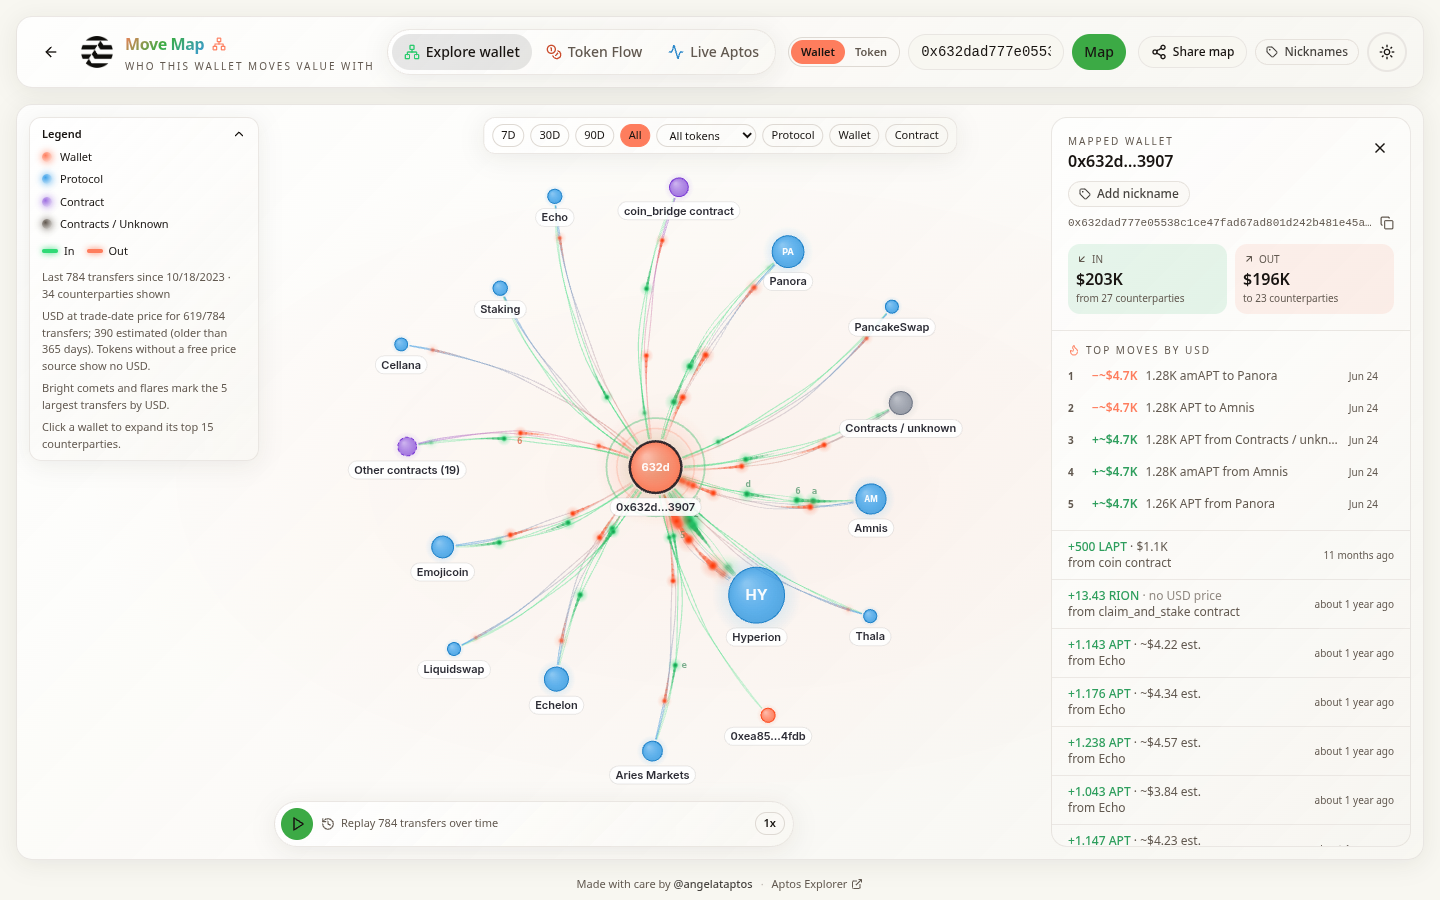
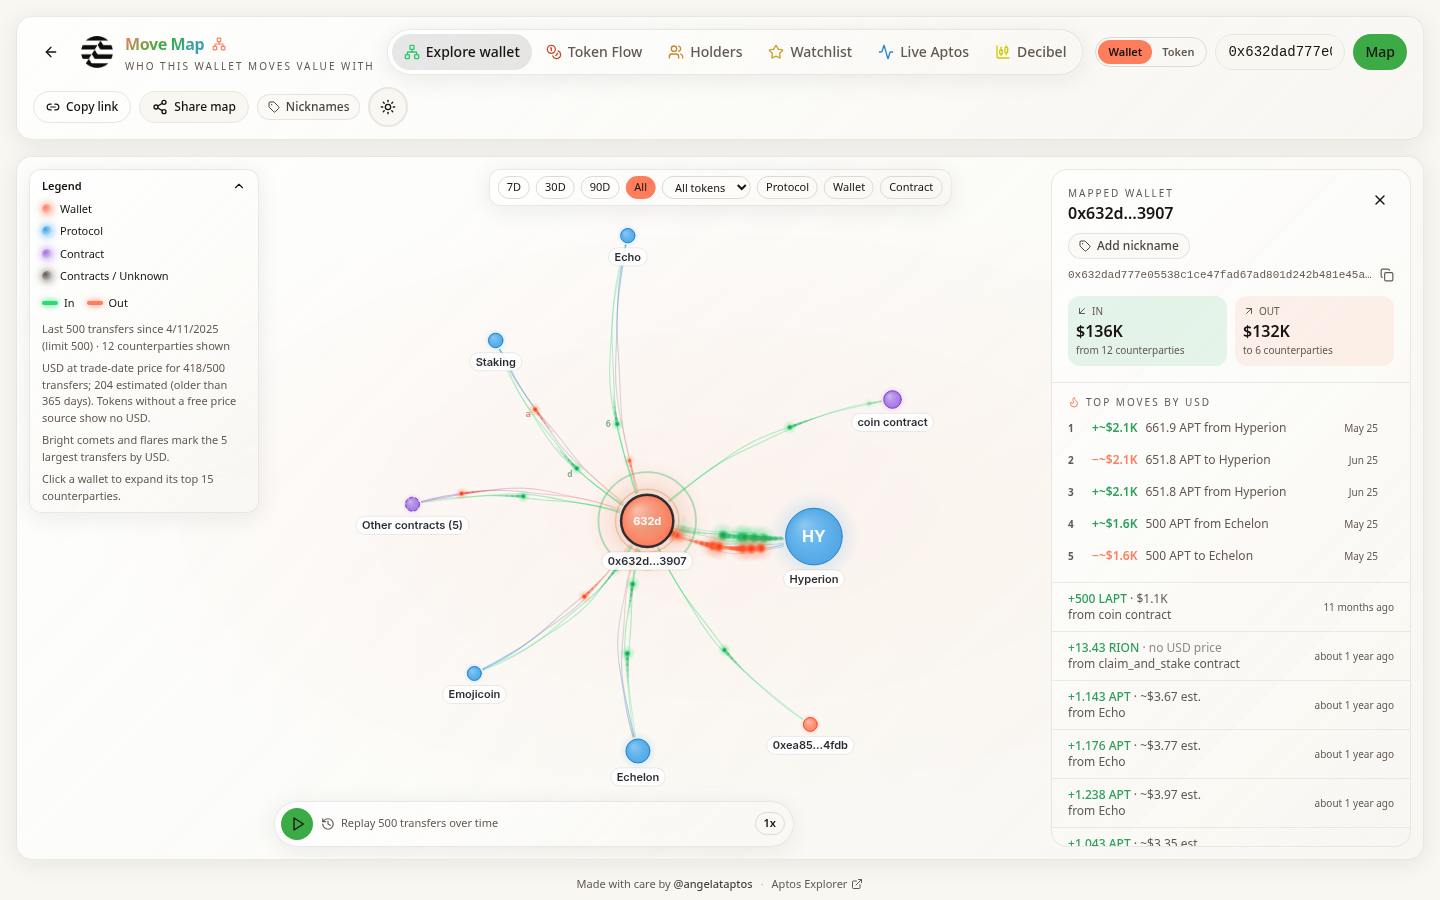
Add Decibel, Pulse Decibel labels and filter, Watchlist and Holders; fresh screenshots

diff --git a/README.md b/README.md
@@ -1,44 +1,64 @@
 # Tracktos
 
-A friendly window into Aptos: an explorer for wallets and the network, built to make the chain easy to see and understand.
+A friendly window into Aptos: see wallets, tokens, the live network and the Decibel exchange as pictures instead of tables.
 
-**[Open it → tracktos.com](https://tracktos.com)** · free, no sign-up, works on phones and desktop
+**[Open it → tracktos.com](https://tracktos.com)** · free, no sign-up, no wallet connect, works on phones and desktop
 
 ![Move Map](screenshots/movemap_desktop_dark.png)
 
 ## Why it exists
 
-I'm a community manager at the Aptos Foundation, in crypto since 2021. Every day people ask me simple questions: what is this wallet doing, where is this token going, how busy is the network? Block explorers answer them, but not in a way most people can *see*. Tracktos draws the answers: who a wallet moves value with, where a token is flowing right now, and what mainnet looks and sounds like block by block. Building it was also how I learned how Aptos works under the hood.
+People new to Aptos keep asking the same simple questions: what is this wallet doing, where is this token going, how busy is the network right now? Block explorers have the answers, but as long lists of transactions that most people can't *see*. Tracktos draws them: who a wallet moves value with, where a token is flowing, who holds it, and what mainnet looks and sounds like block by block. Building it was also how I learned how Aptos works.
 
 ## Who uses it
 
-Aptos community members, holders and curious newcomers who want a visual, phone-friendly way to explore wallets and the network.
+Aptos community members, holders and curious newcomers who want a visual, phone-friendly way to explore wallets and the network, and people who follow Decibel and want its stats on one page.
 
 ## The numbers
 
-*As of October 16, 2026:* Tracktos launched on **October 14, 2026**, so it's early days and I'm not publishing usage numbers yet (my own testing would inflate them, so it's now excluded from the counter). It covers **mainnet and testnet**, with six main views: Move Map, Token Flow, Holders, Pulse, Network and the Wallet explorer, plus **168 address labels** from the official Aptos Explorer's public list and **8 more** verified on-chain.
+*As of October 17, 2026:* Tracktos launched on **October 14, 2026**, so it's early days. I'm not publishing usage numbers yet; my own testing is excluded from the count, and three days is too soon to say anything honest.
+
+- **Eight views**: Move Map, Token Flow, Holders, Watchlist, Pulse, Network, the Wallet explorer and Decibel, on **mainnet and testnet** (Decibel is mainnet only)
+- **176** exchanges, protocols and contracts labelled by name
+- **72** Decibel perp markets tracked, matching the markets Decibel itself lists
+- In a sample on Oct 17, 2026 (about 23 minutes of mainnet), roughly **99%** of user transactions on Aptos were Decibel activity, which is why Pulse now lets you filter it
 
 ## What you can do
 
 ### Explore a wallet: Move Map
-Paste any Aptos address and its counterparties appear as living streams of value: bubbles sized by volume, flowing in and out of the wallet. Play back its history over time, spot the biggest moves as flares, expand two hops out, filter by token, period and kind (wallets, protocols, contracts), and share a card of the map. Known exchanges and protocols are labelled.
+Paste any Aptos address and its counterparties appear as living streams of value: bubbles sized by volume, flowing in and out of the wallet. Play back its history, spot the biggest moves as flares, expand two hops out, filter by token, period and kind (wallets, protocols, contracts), and share a card of the map.
 
 ### Token Flow
-Pick APT, USDC, USDt or any coin type / fungible asset and see its recent transfers as one picture: who is sending, who is receiving, and which exchanges and protocols sit in the middle, over the last hour, day or week.
+Pick APT, USDC, USDt or any coin / fungible asset and see its recent transfers as one picture: who is sending, who is receiving, and which exchanges and protocols sit in the middle, over the last hour, day or week. Token Flow is now more complete and more accurate: busy stretches are counted in full, every transaction is counted whole, and each minute keeps the same level of detail.
 
 ![Token Flow](screenshots/tokenflow_desktop_dark.png)
 
 ### Holders
-The 100 largest holders of APT, USDC, USDt and other major Aptos tokens, with exchanges and protocols labelled. A distribution panel shows how concentrated a token is: top 10/50/100 share of supply, the concentration index (HHI), how many holders together pass half of supply, and a simple 0–100 score with a plain explanation of how it's calculated. It describes concentration only; it never labels a token as risky or a scam.
+The 100 largest holders of APT, USDC, USDt and other major Aptos tokens, with exchanges and protocols named. A distribution panel shows how concentrated a token is: top 10/50/100 share of supply, the concentration index (HHI), how many holders together pass half of supply, and a simple 0–100 score with a plain explanation. It describes concentration only; it never labels a token as risky or a scam.
 
-### Today on Aptos
-The home page opens with the last 24 hours: the biggest single APT, USDC and USDt moves (linked to the explorer, with exchanges named), and how many blocks and transactions the network produced.
+![Holders](screenshots/holders_desktop_dark.png)
+
+### Decibel
+A stats page for [Decibel](https://decibel.trade), the perpetuals exchange on Aptos. Info only: Tracktos doesn't trade, hold funds or connect wallets.
+
+- **Headline figures**: all-time perp volume and trading fees, 24h volume, open interest, vault TVL and leaderboard size. On the evening of Oct 17, 2026 the page showed about **$8.35B** all-time perp volume, **$3.28M** all-time trading fees and **$23.6M** in vaults
+- **Daily history since launch**: perp volume, trading fees and open interest at the end of each day
+- **All 72 perp markets** (31 crypto, 41 TradFi), with price, 24h and 7d change, 24h volume, open interest, and funding shown per year or per hour
+- **Top movers** of the last 24 hours and what's trending on Decibel
+- **Top vaults** by TVL, with APR, all-time return and depositors
+- **Trader leaderboard** by volume or realized PnL, with ROI and account value, linking to Decibel's own leaderboard
+
+![Decibel](screenshots/decibel_desktop_dark.png)
+![Decibel markets](screenshots/decibel_markets_desktop_dark.png)
 
 ### Live Aptos
 - **Pulse**: mainnet's live transactions turned into light and sound. Several visual modes (Garden, Constellation, Orbit, Rain, Pulse Lines), each with its own in-key instrument palette that follows network activity, big APT and stablecoin moves called out as they happen, a Live Transactions feed linking to the explorer, ambient mode, and **Record 10s** to save a clip with sound.
+  - **Decibel, labelled honestly.** Decibel's activity used to appear as generic "Swap" or "Contract" rows. It now has its own label and colour (Decibel yellow), named by what it is: order, quote, cancel, price update or settlement.
+  - **All / Decibel only / Hide Decibel.** Because Decibel is most of the traffic, one tap shows only Decibel, or hides it to see everything else on Aptos. The choice is remembered on your device, and a live counter shows Decibel's current share.
 - **Network**: a 3D globe of the validator set. Every pulse is a real block, drawn from the validator that proposed it, alongside live TPS, epoch progress, transaction mix, staking and supply.
 
 ![Pulse](screenshots/pulse_desktop_dark.png)
+![Pulse with Decibel hidden](screenshots/pulse_hide_decibel_desktop_dark.png)
 ![Live Network](screenshots/network_desktop_light.png)
 
 ### Wallet explorer
@@ -47,41 +67,40 @@ Balances and staking, portfolio history, token holdings, NFT gallery, transactio
 ![Wallet](screenshots/wallet_desktop_dark.png)
 
 ### And
-- **Share links**: every Move Map, Token Flow, Holders and wallet view has a Copy link button that reopens exactly what you were looking at, and links shared on X show a matching title and description
+- **Watchlist**: star wallets and tokens and see them together, kept only in your browser
+- **Today on Aptos**: the home page opens with the last 24 hours, the biggest APT, USDC and USDt moves and how many blocks and transactions the network produced
+- **Share links**: every Move Map, Token Flow, Holders and wallet view has a Copy link button that reopens exactly what you were looking at
 - **Busy wallets** like exchanges get a quick summary instead of a map that would take too long to draw
 - **Nicknames** for wallets you follow, saved only in your browser
-- **Light and dark** themes
-- Designed for **phones** as carefully as for desktop
+- **Light and dark** themes, and a phone menu designed as carefully as the desktop
 
 | | | |
 |---|---|---|
-| ![Home](screenshots/home_mobile_dark.png) | ![Move Map on a phone](screenshots/movemap_mobile_dark.png) | ![Pulse on a phone](screenshots/pulse_mobile_dark.png) |
-| ![Network on a phone](screenshots/network_mobile_dark.png) | ![Wallet on a phone, light](screenshots/wallet_mobile_light.png) | ![Home, light](screenshots/home_desktop_light.png) |
+| ![Home](screenshots/home_mobile_dark.png) | ![Decibel on a phone](screenshots/decibel_mobile_dark.png) | ![Pulse on a phone](screenshots/pulse_mobile_dark.png) |
+| ![Move Map on a phone](screenshots/movemap_mobile_dark.png) | ![Network on a phone](screenshots/network_mobile_dark.png) | ![Wallet on a phone, light](screenshots/wallet_mobile_light.png) |
 
-## How I built it
+![Home, light](screenshots/home_desktop_light.png)
+![Decibel, light](screenshots/decibel_desktop_light.png)
 
-A web app on Cloudflare Pages, with small Cloudflare Workers that read Aptos's public APIs once, cache the answer and share it with every visitor, so live pages stay fast and well inside Aptos rate limits. A scheduled collector rolls recent token transfers into a Cloudflare D1 database for Token Flow.
+## What was hard
 
-## Challenges I solved
-
-- **Accuracy.** Network and staking stats are checked against official Aptos sources, and token prices are matched by each asset's on-chain address rather than by name or symbol, so look-alike tokens can't be mispriced.
-- **Privacy.** Usage is measured with a privacy-first, cookieless counter. Nicknames you give wallets stay in your browser.
-- **Security.** I hardened the site before launch, following web security basics.
-- **Showing "Unavailable" instead of a wrong number.** Every new figure (holder shares, concentration, the day's biggest moves, block counts) was cross-checked against the chain itself before launch, and where a number can't be stated reliably the site says so. For example, the inequality measure (Gini) isn't shown because 100 holders aren't enough to compute it honestly.
+- **Showing "Unavailable" instead of a wrong number.** Where a figure can't be stated reliably, the site says so. For example, the inequality measure (Gini) isn't shown because 100 holders aren't enough to compute it honestly.
+- **One exchange is most of the chain's traffic.** Decibel was almost all of the live feed, mislabelled as swaps. The fix wasn't a separate page but honest labels and a filter on the one people already use.
+- **Matching the source.** Decibel's own pages count only the markets it lists, so Tracktos does too, and funding is shown the same way, per hour or per year.
 - **Very busy wallets.** Exchange wallets have millions of transfers; rather than hang, Tracktos recognises them and shows a fast summary.
-- **Speed on live data.** Shared edge caching keeps the live views smooth for everyone at once.
+- **Live views for everyone at once.** Pulse, Network and Decibel are built to stay smooth when many people have them open at the same time.
 
 ## What I learned
 
-- **Shipping on Cloudflare**: Pages, Workers, scheduled jobs and D1 working together.
-- **Building in public** with the X community, sharing previews and launch posts.
+- **Honest metrics beat impressive ones**: know the limits of a number (a top-100 view is a lower bound) and say so on the page.
+- **Labels matter as much as numbers**: a feed that calls every Decibel order a "Swap" is technically live but tells the wrong story.
+- **Colour is meaning**: each transaction type gets one colour, and yellow means only Decibel.
 - **Iterating from feedback**: refining views and labels based on what people found confusing.
-- **Data accuracy**: verifying every number against official sources before showing it.
-- **Honest metrics**: knowing the limits of a number (a top-100 view is a lower bound) and saying so on the page.
-- **Privacy and security basics**: collect less, store it in the browser where possible, and harden what's public.
+- **Building in public** with the X community, sharing previews and launch posts.
+- **Privacy by default**: no accounts and no wallet connect; nicknames, watchlists and preferences stay in your browser.
 
 ## About
 
-Tracktos is a personal project I built for learning and growth, made with care by [@angelataptos](https://x.com/angelataptos). It is not affiliated with Aptos Labs or the Aptos Foundation. For the authoritative view of the chain, use the [official Aptos Explorer](https://explorer.aptoslabs.com/).
+Tracktos is a personal project I built for learning and growth, made with care by [@angelataptos](https://x.com/angelataptos). It is not affiliated with Aptos Labs, the Aptos Foundation or Decibel. For the authoritative view of the chain, use the [official Aptos Explorer](https://explorer.aptoslabs.com/).
 
 The source code is private. See [LICENSE](LICENSE): all rights reserved.
